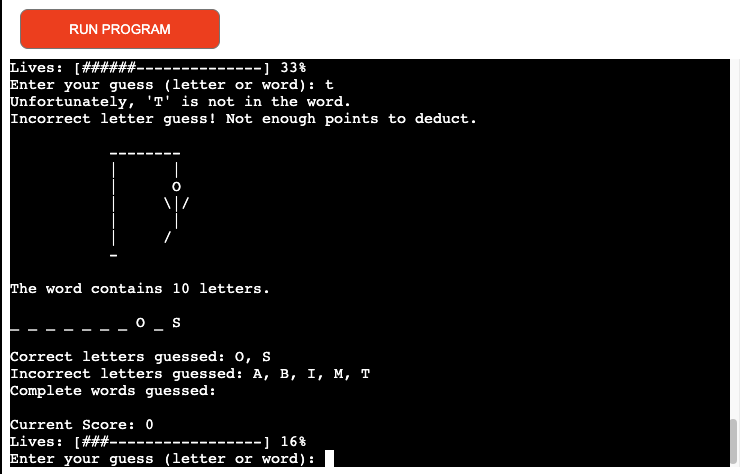
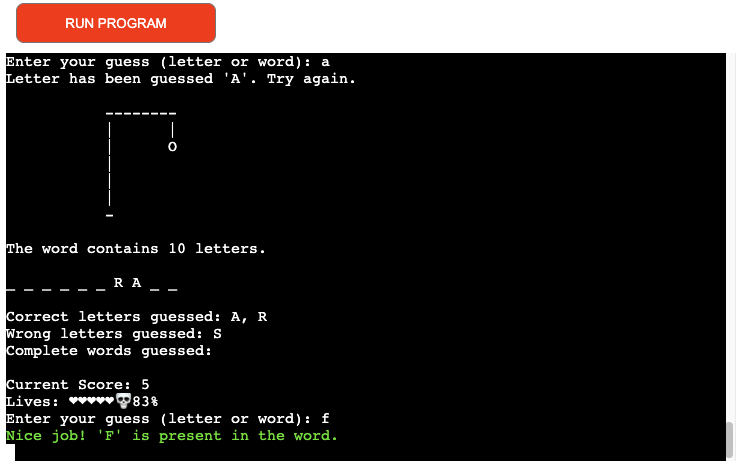
Update the word section

diff --git a/README.md b/README.md
@@ -86,11 +86,20 @@ A word will be randomly selected from a carefully curated list of espionage-them
 
 As the game progresses, each correctly guessed letter will be revealed in the word, while incorrectly guessed letters or words will be noted separately. All correct and incorrect guesses will be cataloged in their respective sections, allowing players to keep track of their progress and previously attempted guesses. This feature helps players strategize and avoid repeating mistakes.
 
+1. Feedback on Guesses: 
+
+* When you guess a letter that is in the word, a notification will momentarily appear in green, signifying a correct guess.
+If the letter is not in the word, the notification will display in red, indicating a wrong guess.
+
+2. Persistent Feedback: 
+
+* The color of the notification (red for incorrect, green for correct) will remain at the top of the game interface until you make another guess, ensuring you remember your last guess's outcome.
+
 *Letters Guessed Correctly*<br>
 ![Letters Guessed Correctly](docs/screenshots/guessedcorrectly.png)
 
 *Letters Guessed Incorrectly*<br>
-![Letters Guessed Incorrectly](docs/screenshots/incorrectwords.png)
+![Letters Guessed Incorrectly](docs/screenshots/incorrectlyguessed.png)
 
 ### List of Guessed Words
 
